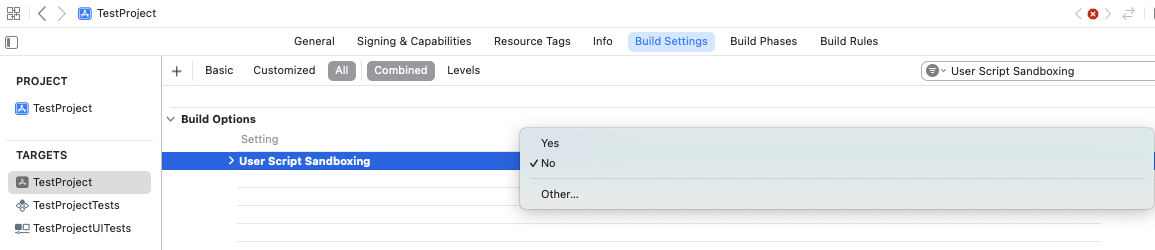
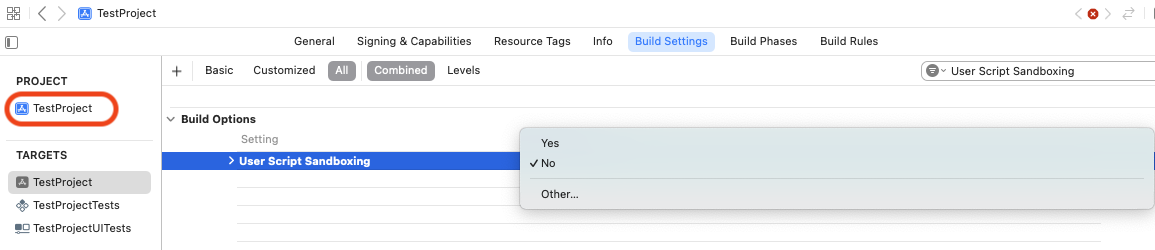
User Script Sandboxing disable for whole ios project

Changed region(s): [[0.0, 0.364, 0.1247, 0.532]]

diff --git a/docs/teams/ios/ios_new_project.md b/docs/teams/ios/ios_new_project.md
@@ -241,7 +241,7 @@
                 ![Step 10](Resources/ios_new_project_21.png){ width="900" }
                 ![Step 11](Resources/ios_new_project_22.png){ width="900" }
                 
-                - disable `User Script Sandboxing` in `Build Settings`
+                - disable `User Script Sandboxing` in `Build Settings at the projects level`
                 
                 ![Step 12](Resources/ios_new_project_23.png){ width="500" }
                 
